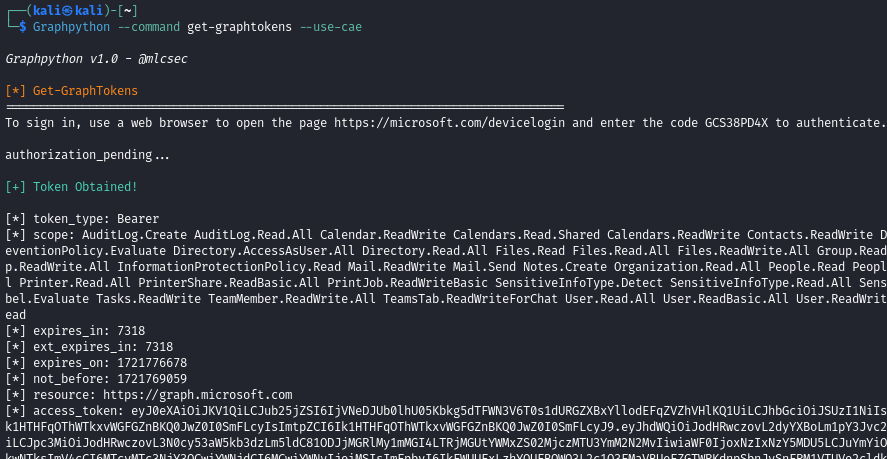
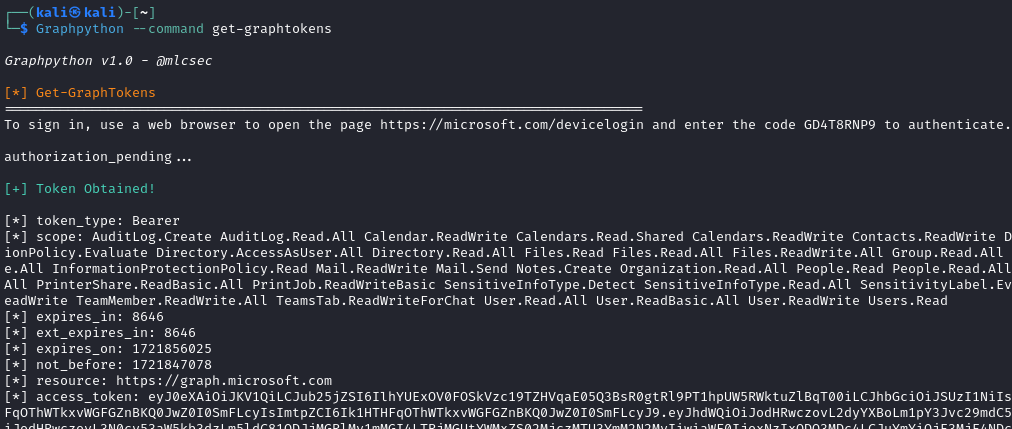
Update v1.0

diff --git a/Graphpython/__main__.py b/Graphpython/__main__.py
@@ -35,8 +35,8 @@ def parseArgs():
     parser.add_argument("--list-commands", action="store_true", help="List available commands")
     parser.add_argument("--token", help="Microsoft Graph access token or refresh token for FOCI abuse")
     parser.add_argument("--estsauthcookie", help="'ESTSAuth' or 'ESTSAuthPersistent' cookie")
-    parser.add_argument("--use-cae", action="store_true", help="Flag to use Continuous Access Evaluation (CAE) - add 'cp1' as client claim to get an access token valid for 24 hours")
-    parser.add_argument("--cert", help="X509Certificate path (.pfx)")
+    parser.add_argument("--use-cae", action="store_true", help="Flag to use Continuous Access Evaluation (CAE)")
+    parser.add_argument("--cert", help="X509Certificate path (.pfx, .crt, .pem, .cer)")
     parser.add_argument("--domain", help="Target domain")
     parser.add_argument("--tenant", help="Target tenant ID")
     parser.add_argument("--username", help="Username or file containing usernames (invoke-userenumerationasoutsider)")

diff --git a/Graphpython/commands/auth.py b/Graphpython/commands/auth.py
@@ -833,7 +833,7 @@ def invoke_refreshtosharepointtoken(args):
 # invoke-certtoaccesstoken
 def invoke_certtoaccesstoken(args):
     if not args.tenant or not args.cert or not args.id:
-        print_red("[-] Error: --tenant, --cert, and --id arguments are required for Invoke-CertToAccessToken command")
+        print_red("[-] Error: --tenant, --cert, and --id <appid> arguments are required for Invoke-CertToAccessToken command")
         return
 
     print_yellow("[*] Invoke-CertToAccessToken")

diff --git a/Graphpython/commands/exploit.py b/Graphpython/commands/exploit.py
@@ -563,7 +563,7 @@ Then supply certificate (public key) with one of the following file types to --c
 .crt
     """
     if not args.id or not args.cert:
-        print_red("[-] Error: --id and --cert required for Add-ApplicationCertificate command")
+        print_red("[-] Error: --id <appobjectid> and --cert required for Add-ApplicationCertificate command")
         print_red(openssl)
         return
     
